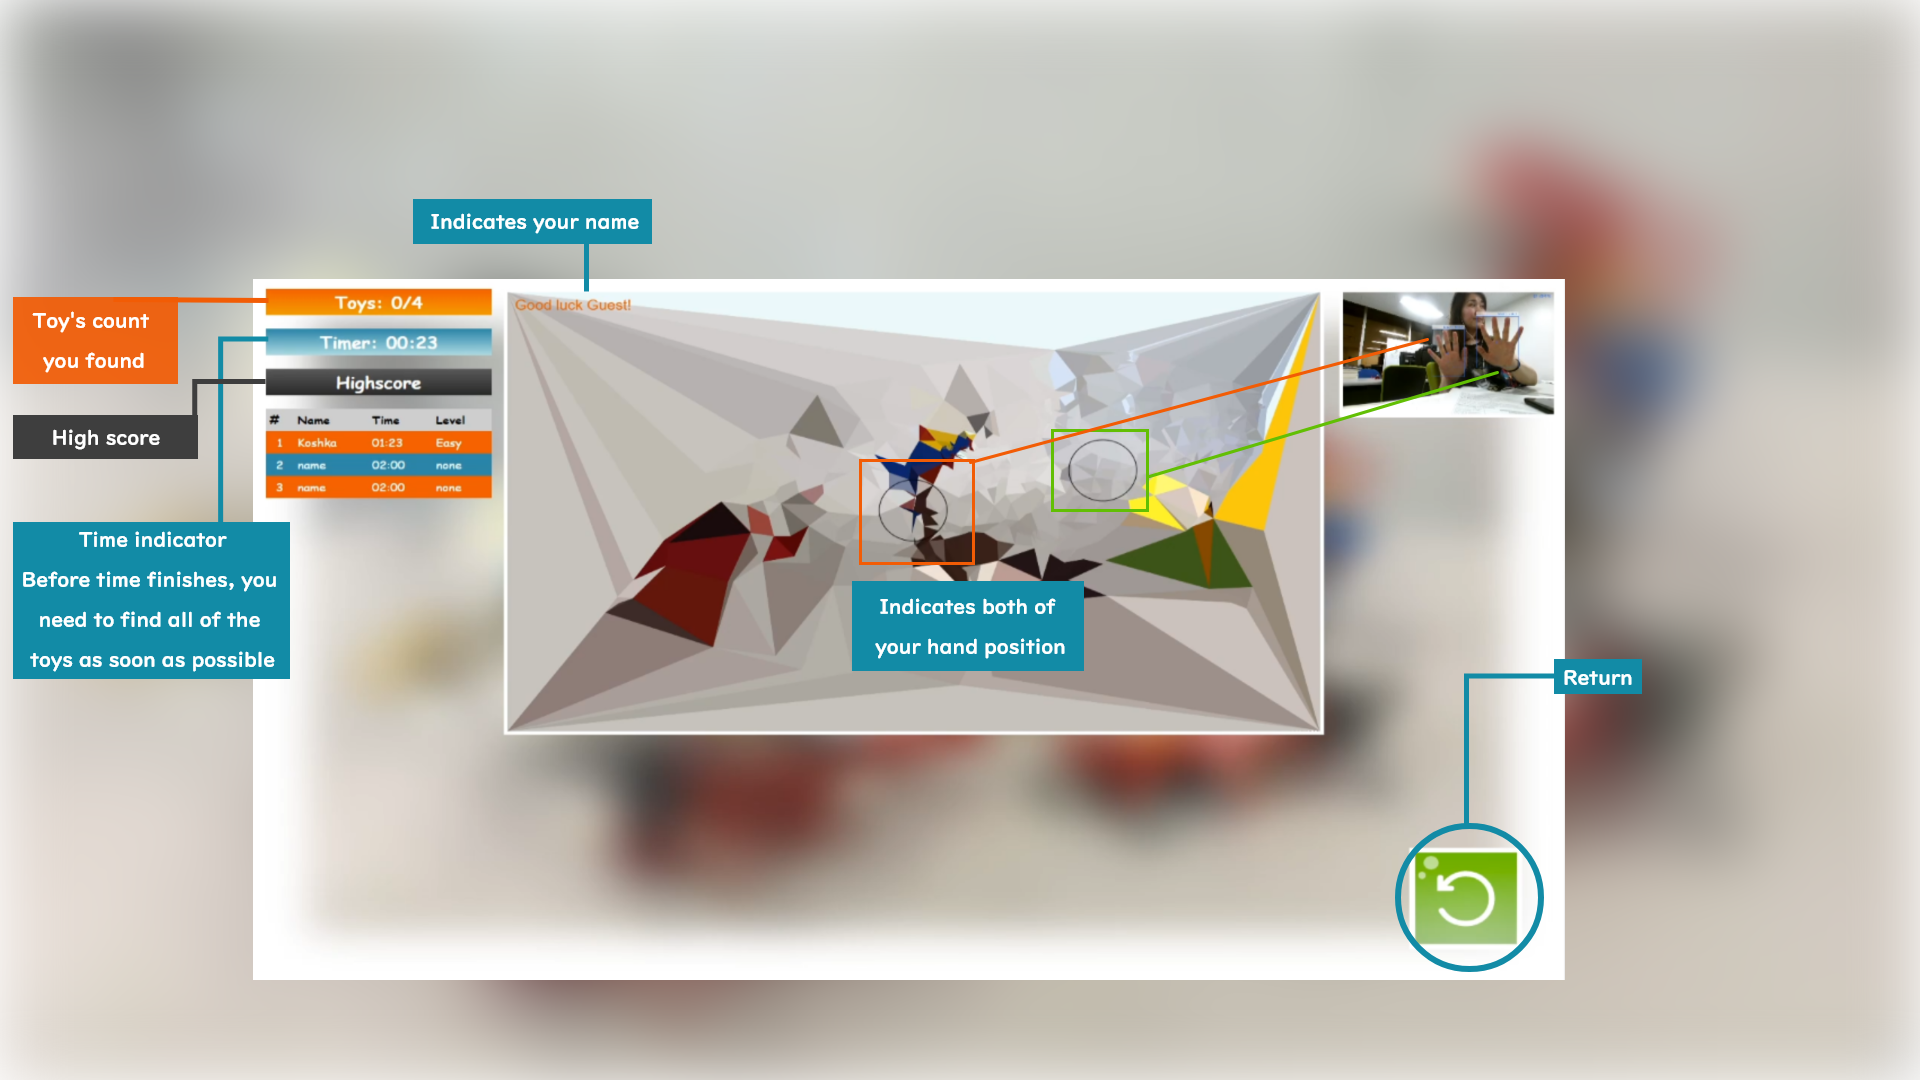
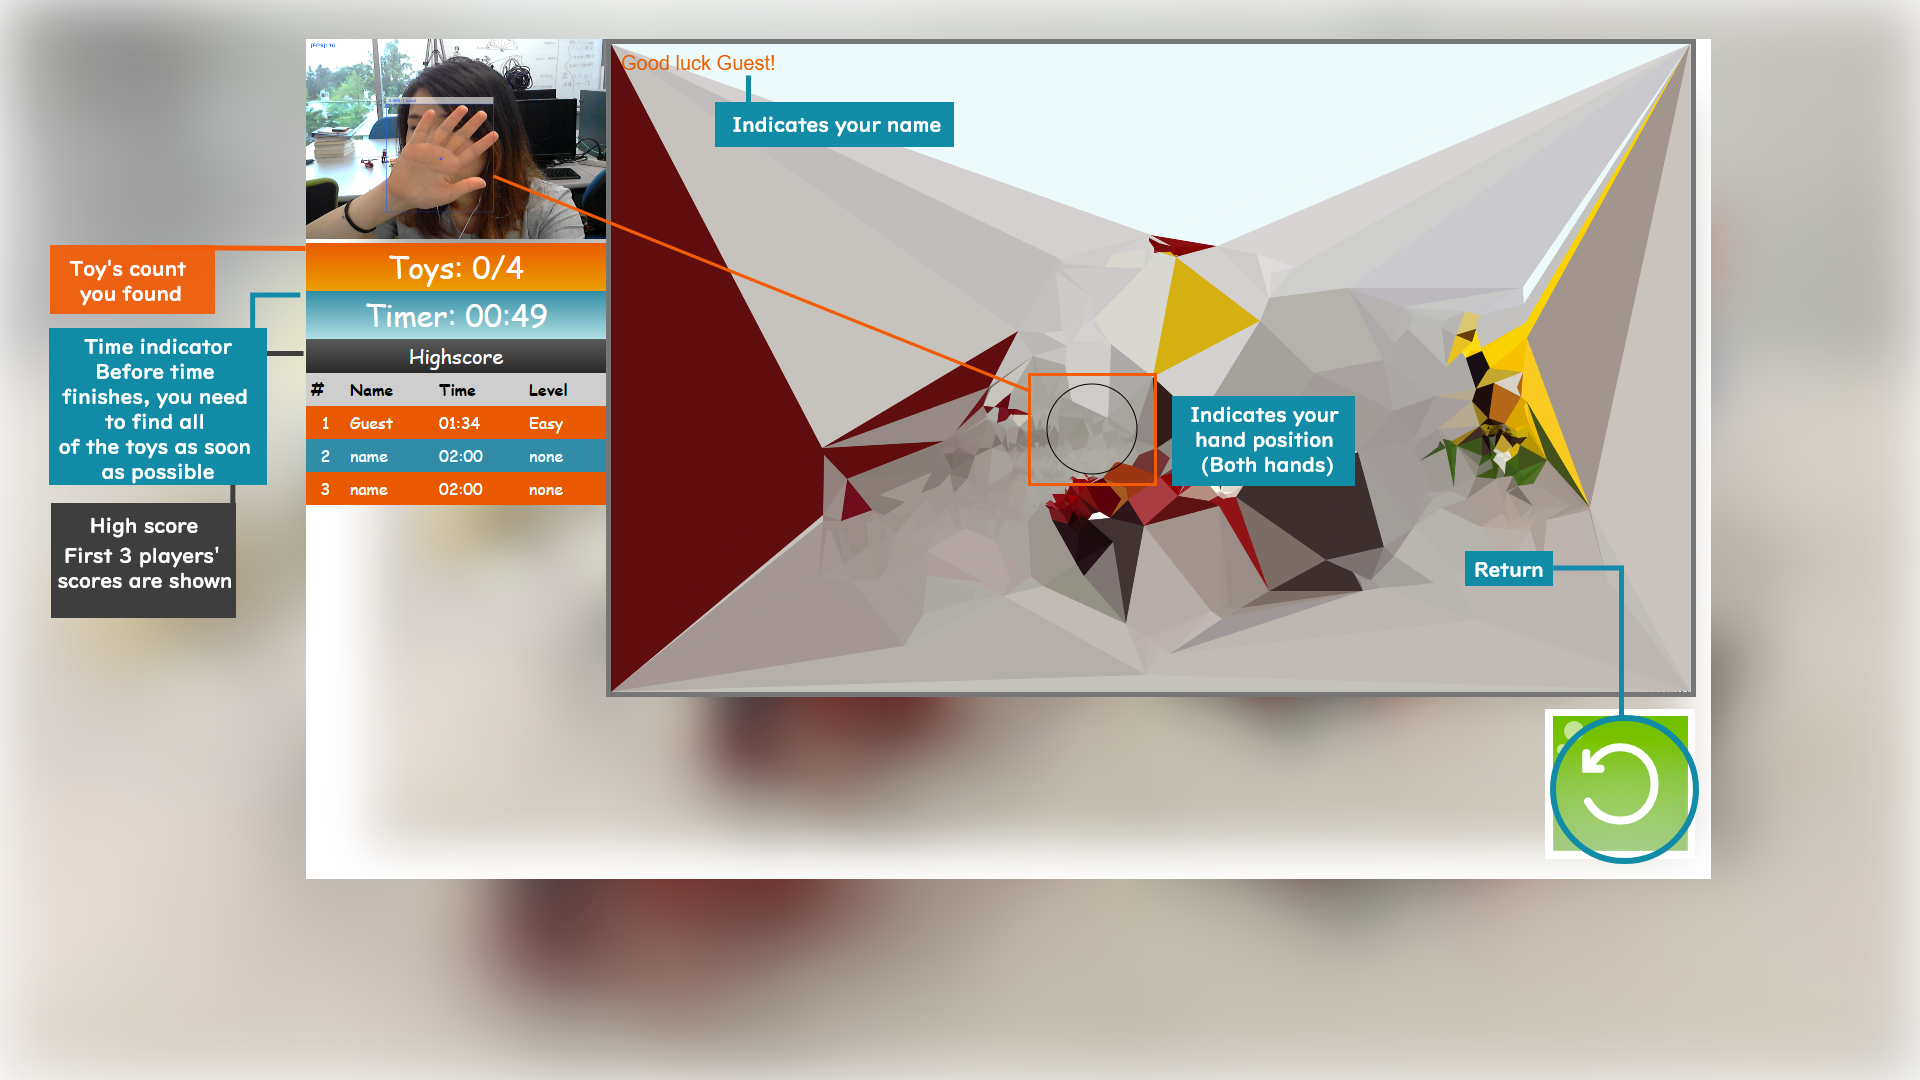
just changed design

diff --git a/main.css b/main.css
@@ -7,12 +7,6 @@ body {
   background-position: center;
   background-size: 100% 100%;
 }
-canvas {
-  position: absolute;
-  top: 20px;
-  display: block;
-  /* border: 100px solid rgb(255, 255, 255); */
-}
 
 button {
   background-color: transparent;
@@ -68,21 +62,22 @@ table th {
   right: 1%;
 }
 
+.helpContainer img {
+  width: 100%;
+  display: flex;
+}
 #canvasCam {
-  position: absolute;
   top: 20px;
   right: 10px;
-  width: 280px;
-  height: 180px;
-  border: 5px solid white;
-  border-radius: 3px;
-  -webkit-transform: rotateY(180deg);
+  width: 300px;
+  height: 200px;
 }
 
 #defaultCanvas0 {
+  display: block;
   position: absolute;
-  right: 320px;
-  border: 5px solid white;
+  left: 300px;
+  border: 5px solid rgb(119, 119, 119);
 }
 
 #gameover {
@@ -104,12 +99,14 @@ table th {
 }
 #p1 {
   font-family: cursive;
+  font-size: 30px;
   background-image: linear-gradient(rgb(242, 92, 5), rgb(242, 159, 5));
   text-align: center;
   padding: 3px 3px 3px 3px;
   color: rgb(255, 255, 255);
 }
 #timer {
+  font-size: 30px;
   font-family: cursive;
   background-image: linear-gradient(rgb(18, 139, 166), rgb(170, 223, 225));
   text-align: center;
@@ -118,20 +115,22 @@ table th {
 }
 #highS {
   font-family: cursive;
+  font-size: 20px;
   background-image: linear-gradient(rgb(90, 90, 90), rgb(41, 41, 41));
   text-align: center;
   padding: 3px 3px 3px 3px;
   color: rgb(255, 255, 255);
 }
+#myContainer {
+  flex-grow: 1;
+}
 .left {
-  position: fixed;
-  left: 20px;
   width: 300px;
 }
-
+/* 
 @media only screen and (max-width: 1632px) {
-  /* For mobile phones: */
+  
   .left {
     bottom: 5px;
   }
-}
+} */

diff --git a/game.html b/game.html
@@ -12,19 +12,25 @@
     <script src="https://cdn.jsdelivr.net/npm/handtrackjs/dist/handtrack.min.js"></script>
     <script src="https://unpkg.com/delaunator@4.0.1/delaunator.js"></script>
     <div id="message">loading...</div>
-    <div class="left">
-      <h2 id="p1">Toys: 0/4</h2>
-      <h2 id="timer">Timer: 02:00</h2>
-      <h2 id="highS">Highscore</h2>
-      <div id="highscore"></div>
+    <div style="display: flex; left: 20px;">
+      <div id="camcam">
+        <canvas id="canvasCam"></canvas>
+        <video
+          id="webCam"
+          class="videobox canvasbox"
+          autoplay="autoplay"
+          style="display: none;"
+        ></video>
+        <div class="left">
+          <div id="p1">Toys: 0/4</div>
+          <div id="timer">Timer: 02:00</div>
+          <div id="highS">Highscore</div>
+          <div id="highscore"></div>
+        </div>
+      </div>
+
+      <div id="myContainer"></div>
     </div>
-    <canvas id="canvasCam" class="border canvasbox"></canvas>
-    <video
-      id="webCam"
-      class="videobox canvasbox"
-      autoplay="autoplay"
-      style="display: none;"
-    ></video>
     <button class="returnBtn" onclick="location.href='index.html'">
       <img
         src="assets/Group 12.png"

diff --git a/gameeasy.html b/gameeasy.html
@@ -12,19 +12,25 @@
     <script src="https://cdn.jsdelivr.net/npm/handtrackjs/dist/handtrack.min.js"></script>
     <script src="https://unpkg.com/delaunator@4.0.1/delaunator.js"></script>
     <div id="message">loading...</div>
-    <div class="left">
-      <h2 id="p1">Toys: 0/2</h2>
-      <h2 id="timer">Timer: 02:00</h2>
-      <h2 id="highS">Highscore</h2>
-      <div id="highscore"></div>
+    <div style="display: flex; left: 20px;">
+      <div id="camcam">
+        <canvas id="canvasCam"></canvas>
+        <video
+          id="webCam"
+          class="videobox canvasbox"
+          autoplay="autoplay"
+          style="display: none;"
+        ></video>
+        <div class="left">
+          <div id="p1">Toys: 0/4</div>
+          <div id="timer">Timer: 02:00</div>
+          <div id="highS">Highscore</div>
+          <div id="highscore"></div>
+        </div>
+      </div>
+
+      <div id="myContainer"></div>
     </div>
-    <canvas id="canvasCam" class="border canvasbox"></canvas>
-    <video
-      id="webCam"
-      class="videobox canvasbox"
-      autoplay="autoplay"
-      style="display: none;"
-    ></video>
     <button class="returnBtn" onclick="location.href='index.html'">
       <img
         src="assets/Group 12.png"

diff --git a/gamehard.html b/gamehard.html
@@ -12,19 +12,25 @@
     <script src="https://cdn.jsdelivr.net/npm/handtrackjs/dist/handtrack.min.js"></script>
     <script src="https://unpkg.com/delaunator@4.0.1/delaunator.js"></script>
     <div id="message">loading...</div>
-    <div class="left">
-      <h2 id="p1">Toys: 0/6</h2>
-      <h2 id="timer">Timer: 02:00</h2>
-      <h2 id="highS">Highscore</h2>
-      <div id="highscore"></div>
+    <div style="display: flex; left: 20px;">
+      <div id="camcam">
+        <canvas id="canvasCam"></canvas>
+        <video
+          id="webCam"
+          class="videobox canvasbox"
+          autoplay="autoplay"
+          style="display: none;"
+        ></video>
+        <div class="left">
+          <div id="p1">Toys: 0/6</div>
+          <div id="timer">Timer: 02:00</div>
+          <div id="highS">Highscore</div>
+          <div id="highscore"></div>
+        </div>
+      </div>
+
+      <div id="myContainer"></div>
     </div>
-    <canvas id="canvasCam" class="border canvasbox"></canvas>
-    <video
-      id="webCam"
-      class="videobox canvasbox"
-      autoplay="autoplay"
-      style="display: none;"
-    ></video>
     <button class="returnBtn" onclick="location.href='index.html'">
       <img
         src="assets/Group 12.png"

diff --git a/app.js b/app.js
@@ -131,7 +131,8 @@ function convertSeconds1(s) {
 }
 function setup() {
   buffer = createGraphics(img.width, img.height);
-  createCanvas(img.width, img.height);
+  let cnv = createCanvas(img.width, img.height);
+  cnv.parent("myContainer");
   var timer = select("#timer");
   timer.html(convertSeconds(timeLeft - counter));
   var interval = setInterval(timeIt, 1000);
@@ -166,7 +167,7 @@ function draw() {
   var tempX1, tempX2, tempY1, tempY2;
 
   if (xCord != null && yCord != null) {
-    tempX1 = int(map(video.width - xCord, 0, video.width, 0, img.width));
+    tempX1 = int(map(xCord, 0, video.width, 0, img.width));
     tempY1 = int(map(yCord, 0, video.height, 0, img.height));
     if (tempX1 > 418 && tempX1 < 761 && tempY1 > 403 && tempY1 < 556) {
       if (pntsCntCar < 2500) {
@@ -218,7 +219,7 @@ function draw() {
     }
   }
   if (xCord2 != null && yCord2 != null) {
-    tempX2 = int(map(video.width - xCord2, 0, video.width, 0, img.width));
+    tempX2 = int(map(xCord2, 0, video.width, 0, img.width));
     tempY2 = int(map(yCord2, 0, video.height, 0, img.height));
     if (tempX2 > 418 && tempX2 < 761 && tempY2 > 403 && tempY2 < 556) {
       if (pntsCntCar < 2500) {

diff --git a/appeasy.js b/appeasy.js
@@ -165,7 +165,7 @@ function draw() {
   var tempX1, tempX2, tempY1, tempY2;
 
   if (xCord != null && yCord != null) {
-    tempX1 = int(map(video.width - xCord, 0, video.width, 0, img.width));
+    tempX1 = int(map(xCord, 0, video.width, 0, img.width));
     tempY1 = int(map(yCord, 0, video.height, 0, img.height));
     if (tempX1 > 278 && tempX1 < 494 && tempY1 > 321 && tempY1 < 502) {
       if (pntsCntHeli < 1800) {
@@ -198,7 +198,7 @@ function draw() {
     }
   }
   if (xCord2 != null && yCord2 != null) {
-    tempX2 = int(map(video.width - xCord2, 0, video.width, 0, img.width));
+    tempX2 = int(map(xCord2, 0, video.width, 0, img.width));
     tempY2 = int(map(yCord2, 0, video.height, 0, img.height));
     if (tempX2 > 278 && tempX2 < 494 && tempY2 > 321 && tempY2 < 502) {
       if (pntsCntHeli < 1800) {

diff --git a/apphard.js b/apphard.js
@@ -168,7 +168,7 @@ function draw() {
   var tempX1, tempX2, tempY1, tempY2;
 
   if (xCord != null && yCord != null) {
-    tempX1 = int(map(video.width - xCord, 0, video.width, 0, img.width));
+    tempX1 = int(map(xCord, 0, video.width, 0, img.width));
     tempY1 = int(map(yCord, 0, video.height, 0, img.height));
     if (tempX1 > 290 && tempX1 < 481 && tempY1 > 282 && tempY1 < 378) {
       if (pntsCntCar < 800) {
@@ -243,7 +243,7 @@ function draw() {
     }
   }
   if (xCord2 != null && yCord2 != null) {
-    tempX2 = int(map(video.width - xCord2, 0, video.width, 0, img.width));
+    tempX2 = int(map(xCord2, 0, video.width, 0, img.width));
     tempY2 = int(map(yCord2, 0, video.height, 0, img.height));
     if (tempX2 > 290 && tempX2 < 481 && tempY2 > 282 && tempY2 < 378) {
       if (pntsCntCar < 800) {

diff --git a/help.html b/help.html
@@ -17,7 +17,7 @@
         />
       </button>
     </div>
-     <div style="position: absolute; top: 3%; align-self: center; left: 30%;">
+    <div style="position: absolute; top: 3%; align-self: center; left: 30%;">
       <img src="assets/Group 35.png" />
     </div>
   </body>
